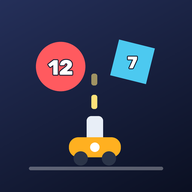
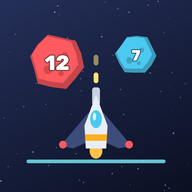
Shape Blast publicado: en el carrusel (listed/public), icono de la nave y color nuevo; play.py lo cuenta como publicado (y Arrow)

diff --git a/herramientas/play.py b/herramientas/play.py
@@ -48,7 +48,7 @@ JUEGOS = {
     "laberinto": ("minotaurs Maze", "com.gokapigo.laberinto"),
 }
 # los que ya están públicos en Play (los que toca "todos")
-PUBLICADOS = ["sand", "aqua", "nuts", "color", "sudoku", "shapespin", "parchis", "pipe", "onestroke", "maze", "shapetiles", "solitaire"]
+PUBLICADOS = ["sand", "aqua", "nuts", "color", "sudoku", "shapespin", "parchis", "pipe", "onestroke", "maze", "shapetiles", "solitaire", "arrow", "shapeblast"]
 IMAGENES = {"icon.png": "icon", "featureGraphic.png": "featureGraphic"}
 
 
